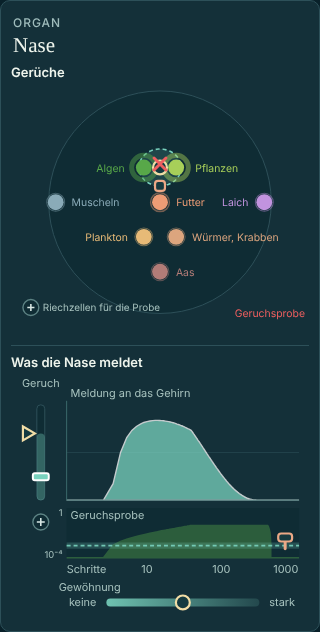
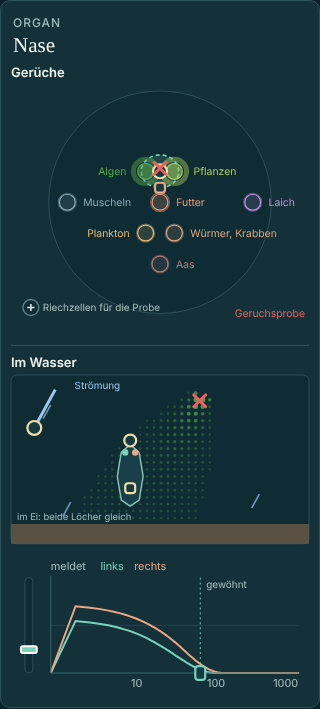
Entwurf Nase nach Fables Gegenprüfung: Karte bis 180°, Kugelfüllung = Anteil der Probe, Ring = Passung; statt Meldungsmuster der Kopf von oben im strömenden Wasser mit Geruchsfahne, zwei Nasenlöcher, im Boden, Meldung links/rechts mit Schwelle und Gewöhnung (4–1024)
Claude-Session: https://claude.ai/code/session_01SAD6gcsuZjdDe9bFzLa7Yk

diff --git a/entwuerfe/inspektoren.html b/entwuerfe/inspektoren.html
@@ -133,8 +133,8 @@ svg text.value{fill:var(--text);font-variant-numeric:tabular-nums}
     <h2>Organ</h2><h3>Nase</h3>
     <h4 class="first">Gerüche</h4>
     <svg id="nosemap" viewBox="0 4 300 250"></svg>
-    <h4>Was die Nase meldet</h4>
-    <svg id="nosesense" viewBox="0 0 300 200"></svg>
+    <h4>Im Wasser</h4>
+    <svg id="nosesense" viewBox="0 0 300 320"></svg>
   </section>
   <section class="panel" aria-label="Barteln">
     <h2>Organ</h2><h3>Barteln</h3>
@@ -1558,13 +1558,82 @@ const probeMix = pr => { const hit = SCENTS.findIndex(([, , la, lo]) => apart([l
   const w = SCENTS.map(([, , la, lo]) => Math.exp(-Math.pow(apart([la, lo], [pr.lat, pr.lon]), 2) / (2 * 25 * 25))), t = w.reduce((x, y) => x + y, 0) || 1;
   return w.map(v => v / t); };
 const groupSmell = (g, mix) => mix.reduce((t, m, k) => t + m * scentAffinity(g, k), 0);
+// Below the map (Fable 19:18): the head from above in flowing water. The sample is a source in the
+// water; its plume drifts with the current. The fish smells 0.8 body radii ahead of itself
+// (body_plan.cc:1010–1033); the nostril facing the current gets water from up to 8 steps upstream,
+// the other the water at the point; in still water or with the current straight ahead both smell
+// alike. Each cell smells through the nostril of its side; a buried nose smells nothing
+// (× (1 − buried)). In the egg both sides read their mean; after hatching the difference comes in
+// over 4 to 48 steps. What each side reports over time, with the chosen group's threshold and its
+// getting used to it (4 to 1024 steps) as grips on these two traces.
+const NOSEWATER = {head : [120, 92], heading : -Math.PI / 2, current : Math.PI / 2 + .5, source : [190, 26]};
+function plumeAt(px, py) {
+  const W = NOSEWATER, u = [Math.cos(W.current), Math.sin(W.current)], dx = px - W.source[0], dy = py - W.source[1];
+  const along = dx * u[0] + dy * u[1], cross = -dx * u[1] + dy * u[0];
+  if (along < -6) return 0;
+  const w = 6 + .3 * Math.max(0, along);
+  return Math.exp(-cross * cross / (2 * w * w)) * 6 / w * Math.exp(-Math.max(0, along) / 300);
+}
 function drawNose() {
   const svg = document.getElementById('nosemap'), redraw = drawNose;
   noseMap(svg, redraw);
-  const mix = probeMix(NOSE.probe), main = mix.indexOf(Math.max(...mix));
-  senseGroups('nosesense', NOSE, {word : 'Geruch', strip : 'Geruchsprobe', colour : SCENTS[main][1], redraw,
-    at : (st, level, gr) => level * groupSmell(gr, mix) * (st < 2 ? 0 : st < 40 ? (st - 2) / 38 : st < SENSE_LASTS ? 1 : Math.max(0, 1 - (st - SENSE_LASTS) / 40)),
-    newGroup : () => ({lat : NOSE.probe.lat, lon : NOSE.probe.lon, width : .2, gate : 0.245, spread : .1, habit : .5})});
+  drawNoseWater();
+}
+function drawNoseWater() {
+  const svg = document.getElementById('nosesense'); svg.replaceChildren();
+  const W = NOSEWATER, redraw = drawNoseWater, H = 170, sand = 150;
+  el('rect', {x : 0, y : 0, width : 300, height : H, rx : 6, fill : '#0f2c34', stroke : '#2d5059'}, svg);
+  el('rect', {x : 0, y : sand, width : 300, height : H - sand, fill : '#6b5a48', opacity : .8}, svg);
+  // The plume, as a field of dots as dense as its concentration.
+  const mix = probeMix(NOSE.probe), main = SCENTS[mix.indexOf(Math.max(...mix))][1];
+  for (let x = 4; x < 300; x += 7) for (let y = 4; y < sand; y += 7) { const c = plumeAt(x, y); if (c > .04) el('circle', {cx : x, cy : y, r : 1.2 + 1.6 * Math.min(1, c), fill : main, opacity : Math.min(.9, .2 + c)}, svg); }
+  // The current: arrows, and a grip on the edge to turn it.
+  const u = [Math.cos(W.current), Math.sin(W.current)];
+  for (const [ox, oy] of [[40, 30], [250, 120], [60, 128]]) el('path', {d : `M${ox} ${oy} l${(u[0] * 16).toFixed(1)} ${(u[1] * 16).toFixed(1)}`, stroke : '#9cc8f0', 'stroke-width' : 1.6, 'marker-end' : '', opacity : .7}, svg);
+  // The current: an arrow in the corner, its tip turned.
+  const c0 = [34, 34], ct = [c0[0] + u[0] * 22, c0[1] + u[1] * 22];
+  el('path', {d : `M${c0[0] - u[0] * 22} ${c0[1] - u[1] * 22} L${ct[0]} ${ct[1]}`, stroke : '#9cc8f0', 'stroke-width' : 3}, svg);
+  drag(svg, el('circle', {cx : ct[0], cy : ct[1], r : 7}, svg), q => { W.current = Math.atan2(q.y - c0[1], q.x - c0[0]); redraw(); }, 'nosecurrent');
+  txt(svg, c0[0] + 30, 14, 'Strömung', {style : 'fill:#9cc8f0;font-size:10px'});
+  // The source (the sample of the map), dragged anywhere in the water.
+  el('path', {d : `M${W.source[0] - 6} ${W.source[1] - 6} l12 12 m0 -12 l-12 12`, stroke : '#ef5f5f', 'stroke-width' : 3, 'stroke-linecap' : 'round'}, svg);
+  drag(svg, el('circle', {cx : W.source[0], cy : W.source[1], r : 9, style : 'fill:transparent;stroke:none'}, svg), q => { W.source = [clamp(q.x, 6, 294), clamp(q.y, 6, sand - 6)]; redraw(); }, 'nosesource');
+  // The head from above, its two nostrils, turned by the snout grip, moved by the body.
+  const [hx, hy] = W.head, h = W.heading, f = [Math.cos(h), Math.sin(h)], side = [-f[1], f[0]];
+  const pt = (a, b) => [hx + f[0] * a + side[0] * b, hy + f[1] * a + side[1] * b];
+  const outline = [[22, 0], [14, 9], [-10, 13], [-34, 9], [-40, 0], [-34, -9], [-10, -13], [14, -9]].map(([a, b]) => pt(a, b));
+  el('path', {d : 'M' + outline.map(([x, y]) => `${x.toFixed(1)} ${y.toFixed(1)}`).join(' L') + 'Z', fill : '#1b3f48', stroke : '#8ac7bb', 'stroke-width' : 1.4}, svg);
+  const buried = clamp((hy + 6 - sand) / 14, 0, 1);
+  const nostril = sgn => { const [x, y] = pt(14, sgn * 5); const facing = (sgn * (side[0] * u[0] + side[1] * u[1])) < 0 || (f[0] * u[0] + f[1] * u[1]) < -.2;
+    const [sx, sy] = facing ? [x - u[0] * 10, y - u[1] * 10] : [x, y];
+    return {x, y, c : plumeAt(sx, sy) * (1 - buried)}; };
+  const nl = nostril(-1), nr = nostril(1);
+  for (const [n, col] of [[nl, '#79d2be'], [nr, '#eaa886']]) el('circle', {cx : n.x, cy : n.y, r : 3.2, fill : col}, svg);
+  const [sx, sy] = pt(26, 0);
+  drag(svg, el('circle', {cx : sx, cy : sy, r : 6}, svg), q => { W.heading = Math.atan2(q.y - hy, q.x - hx); redraw(); }, 'noseturn');
+  drag(svg, el('rect', {x : hx - 22 * f[0] - 5, y : hy - 22 * f[1] - 5, width : 10, height : 10, rx : 3}, svg), q => { W.head = [clamp(q.x + 22 * f[0], 20, 280), clamp(q.y + 22 * f[1], 20, H - 4)]; redraw(); }, 'nosehead');
+  if (buried > 0) txt(svg, hx, sand + 14, 'im Boden: riecht weniger', {'text-anchor' : 'middle', style : 'font-size:10px'});
+  txt(svg, 6, H - 4 - (H - sand), 'im Ei: beide Löcher gleich', {style : 'font-size:9.5px;fill:#9fbcbc'});
+  // What each side reports over time (the fish holds still in the plume).
+  const N = 1024, L = 40, R = 290, T0 = H + 34, T1 = T0 + 96, X = st => L + (R - L) * Math.log(1 + st) / Math.log(1 + N), stOf = x => Math.expm1(clamp((x - L) / (R - L), 0, 1) * Math.log(1 + N));
+  const smell = g => mix.reduce((t, m, k) => t + m * scentAffinity(g, k), 0);
+  const trace = n => { const tot = Array(N + 1).fill(0); NOSE.groups.forEach(g => { const stim = Array.from({length : N + 1}, (_, st) => st < 1 ? 0 : openShare(n.c * smell(g) * openStim(NOSE.level))); senseAnswer(g, stim, false).forEach((v, st) => { tot[st] += v; }); }); return tot; };
+  const tl = trace(nl), tr = trace(nr), most = Math.max(1, ...tl, ...tr), Y = v => T1 - (T1 - T0) * v / most;
+  grid(svg, L, R, T0, T1, most);
+  for (const [t, col, word] of [[tl, '#79d2be', 'links'], [tr, '#eaa886', 'rechts']]) { el('path', {d : 'M' + t.map((v, st) => `${X(st).toFixed(1)} ${Y(v).toFixed(1)}`).join(' L'), fill : 'none', stroke : col, 'stroke-width' : 2}, svg); }
+  txt(svg, L, T0 - 8, 'meldet'); txt(svg, L + 50, T0 - 8, 'links', {style : 'fill:#79d2be'}); txt(svg, L + 84, T0 - 8, 'rechts', {style : 'fill:#eaa886'});
+  el('path', {d : `M${L} ${T1} H${R} M${L} ${T1} V${T0 - 2}`, stroke : '#3b6a6c', fill : 'none'}, svg);
+  for (const st of [10, 100, 1000]) txt(svg, X(st), T1 + 14, st, {'text-anchor' : st === 1000 ? 'end' : 'middle'});
+  // The chosen group: its threshold on the sample's strength (left bar, log), its getting used to it
+  // on the time axis.
+  const g = NOSE.groups[NOSE.chosen];
+  regler(svg, {x : 14, top : T0, base : T1, word : '', value : null, name : 'nosegate',
+    marks : NOSE.groups.map((gr, i) => ({value : gr.gate, colour : groupColour(i), chosen : i === NOSE.chosen, set : v => { gr.gate = gateClamp(v, false); NOSE.chosen = i; redraw(); }}))});
+  const xt = X(tauOf(g.habit));
+  el('path', {d : `M${xt} ${T0} V${T1}`, stroke : groupColour(NOSE.chosen), 'stroke-dasharray' : '2 3'}, svg);
+  drag(svg, el('rect', {x : xt - 5, y : T1 - 7, width : 10, height : 14, rx : 3, style : 'stroke:' + groupColour(NOSE.chosen)}, svg), q => { const st = clamp(stOf(q.x), 4, 1024); g.habit = clamp(Math.log(st / 1024) / Math.log(4 / 1024), 0, 1); redraw(); }, 'nosehabit');
+  txt(svg, xt + 6, T0 + 10, 'gewöhnt', {style : 'font-size:10px'});
+  svg.setAttribute('viewBox', `0 0 300 ${T1 + 20}`);
 }
 // The smell map, large, at even steps from its middle to its rim (so the rim is not crowded). The
 // scents as balls; around each a ring as thick as the nose smells it at all (its best group). Every
@@ -1574,8 +1643,8 @@ function noseMap(svg, redraw) {
   svg.replaceChildren();
   const hold = () => { NOSE.held = true; }, free = () => { NOSE.held = false; redraw(); };
   const cx = 150, cy = 122, Rm = 112;
-  const at = (lat, lon) => { const r = Rm * Math.min(1, (90 - lat) / 160); return [cx + r * Math.sin(rad(lon)), cy - r * Math.cos(rad(lon))]; };
-  const back = p => { const dx = p.x - cx, dy = p.y - cy, r = Math.min(Rm, Math.hypot(dx, dy)); return [90 - (r >= Rm - 1 ? 180 : 160 * r / Rm), degOf(Math.atan2(dx, -dy))]; };
+  const at = (lat, lon) => { const r = Rm * (90 - lat) / 180; return [cx + r * Math.sin(rad(lon)), cy - r * Math.cos(rad(lon))]; };
+  const back = p => { const dx = p.x - cx, dy = p.y - cy, r = Math.min(Rm, Math.hypot(dx, dy)); return [90 - 180 * r / Rm, degOf(Math.atan2(dx, -dy))]; };
   el('circle', {cx, cy, r : Rm, fill : '#0f2c34', stroke : '#2d5059'}, svg);
   const g = NOSE.groups[NOSE.chosen];
   NOSE.groups.forEach((gr, i) => {
@@ -1592,10 +1661,12 @@ function noseMap(svg, redraw) {
     if (i !== NOSE.chosen) { const [x, y] = at(la, lo); el('circle', {cx : x, cy : y, r : 4, fill : groupColour(i), class : 'chip'}, svg).addEventListener('pointerdown', () => { NOSE.chosen = i; redraw(); }); }
   });
   // The scents: a ball each; its ring is how strongly the nose smells it.
+  const mixNow = probeMix(NOSE.probe);
   SCENTS.forEach(([name, colour, lat, lon], k) => {
     const [x, y] = at(lat, lon), smelt = Math.max(...NOSE.groups.map(gr => scentAffinity(gr, k)));
+    // Ring: how well the nose fits this scent; fill: how much of it is in the sample (Fable 19:18).
     el('circle', {cx : x, cy : y, r : 9 + 5 * smelt, fill : 'none', stroke : colour, 'stroke-width' : 1 + 6 * smelt, opacity : .45}, svg);
-    el('circle', {cx : x, cy : y, r : 8, fill : colour}, svg);
+    el('circle', {cx : x, cy : y, r : 8, fill : colour, 'fill-opacity' : .15 + .85 * mixNow[k], stroke : colour, 'stroke-width' : 1.2}, svg);
     const w = name.length * 6, gap = 16 + 5 * smelt;
     const right = x >= cx - 2 ? x + gap + w < 298 : x - gap - w < 2;
     txt(svg, x + (right ? 1 : -1) * gap, y + 4, name, {'text-anchor' : right ? 'start' : 'end', style : 'fill:' + colour + ';font-size:10.5px'});
